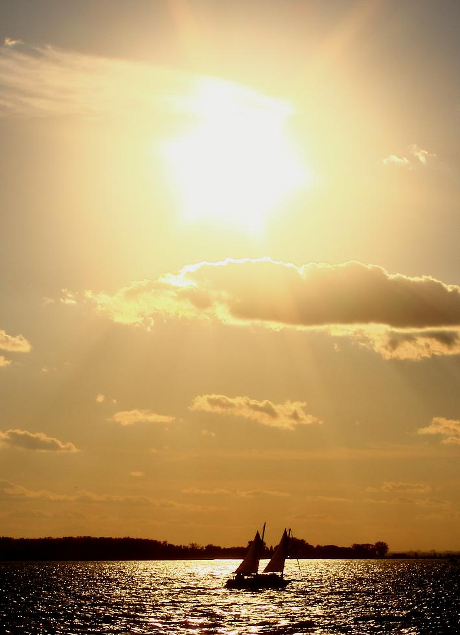
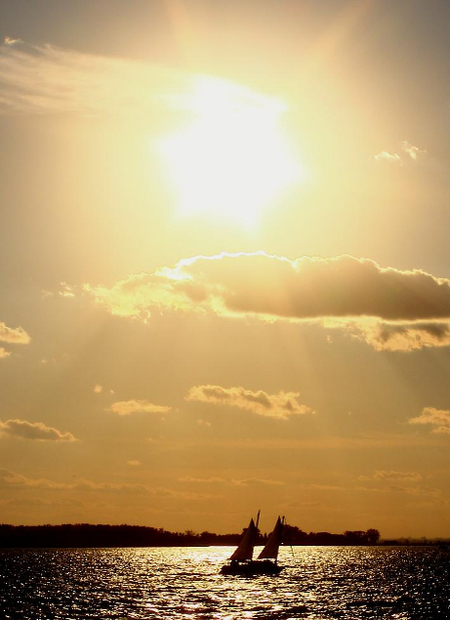
add canvas backgroud and resize images

Changed region(s): [[0.2178, 0.8887, 0.8711, 1.0], [0.1244, 0.95, 0.1867, 0.9806], [0.1556, 0.8887, 0.1867, 0.9194]]

diff --git a/style.css b/style.css
@@ -1,6 +1,9 @@
 body {
   text-align: center;
   margin: 0px;
+  background-image: url("dark_brown_canvas_background.jpg");
+  background-repeat: no-repeat;
+  width: 100%;
 }
 
 #container {
@@ -16,33 +19,30 @@ section {
   border: 1px dotted black;
 }
 
-article {
-  float: left;
-}
-
-.picture {
-  margin: 0px 10px;
-  width: 460px;
-  height: 635px;
+.picture-column2 {
+  width: 450px;
+  height: 620px;
+  border: 5px solid black;
 }
 
 #photo1 {
   background-image: url("img_0061_reveal.jpg");
   background-repeat: no-repeat;
+  float: left;
 }
 
 #photo2 {
   background-image: url("IMG_0225_reveal.jpg");
   background-repeat: no-repeat;
+  float: right;
 }
 
 .block {
-  background-color: white;
-  width: 10px;
-  height: 5px;
+  width: 30px;
+  height: 20px;
   float: left;
   margin: 0px;
-  background-color: gray;
+  background-image: url("brown_canvas_seamless.jpg");
 }
 
 .hide {

diff --git a/index.html b/index.html
@@ -8,8 +8,8 @@
 <body>
   <div id="container">
     <section>
-      <article class="picture" id="photo1"></article>
-      <article class="picture" id="photo2"></article>
+      <article class="picture-column2" id="photo1"></article>
+      <article class="picture-column2" id="photo2"></article>
     </section>
   </div>
   

diff --git a/application.js b/application.js
@@ -1,6 +1,6 @@
 $(document).ready(function(){
 
-  for (var i = 0; i < 5842; i++) {
+  for (var i = 0; i < 465; i++) {
     $("article").append("<p class=\"block\"></p>");
   }
 
